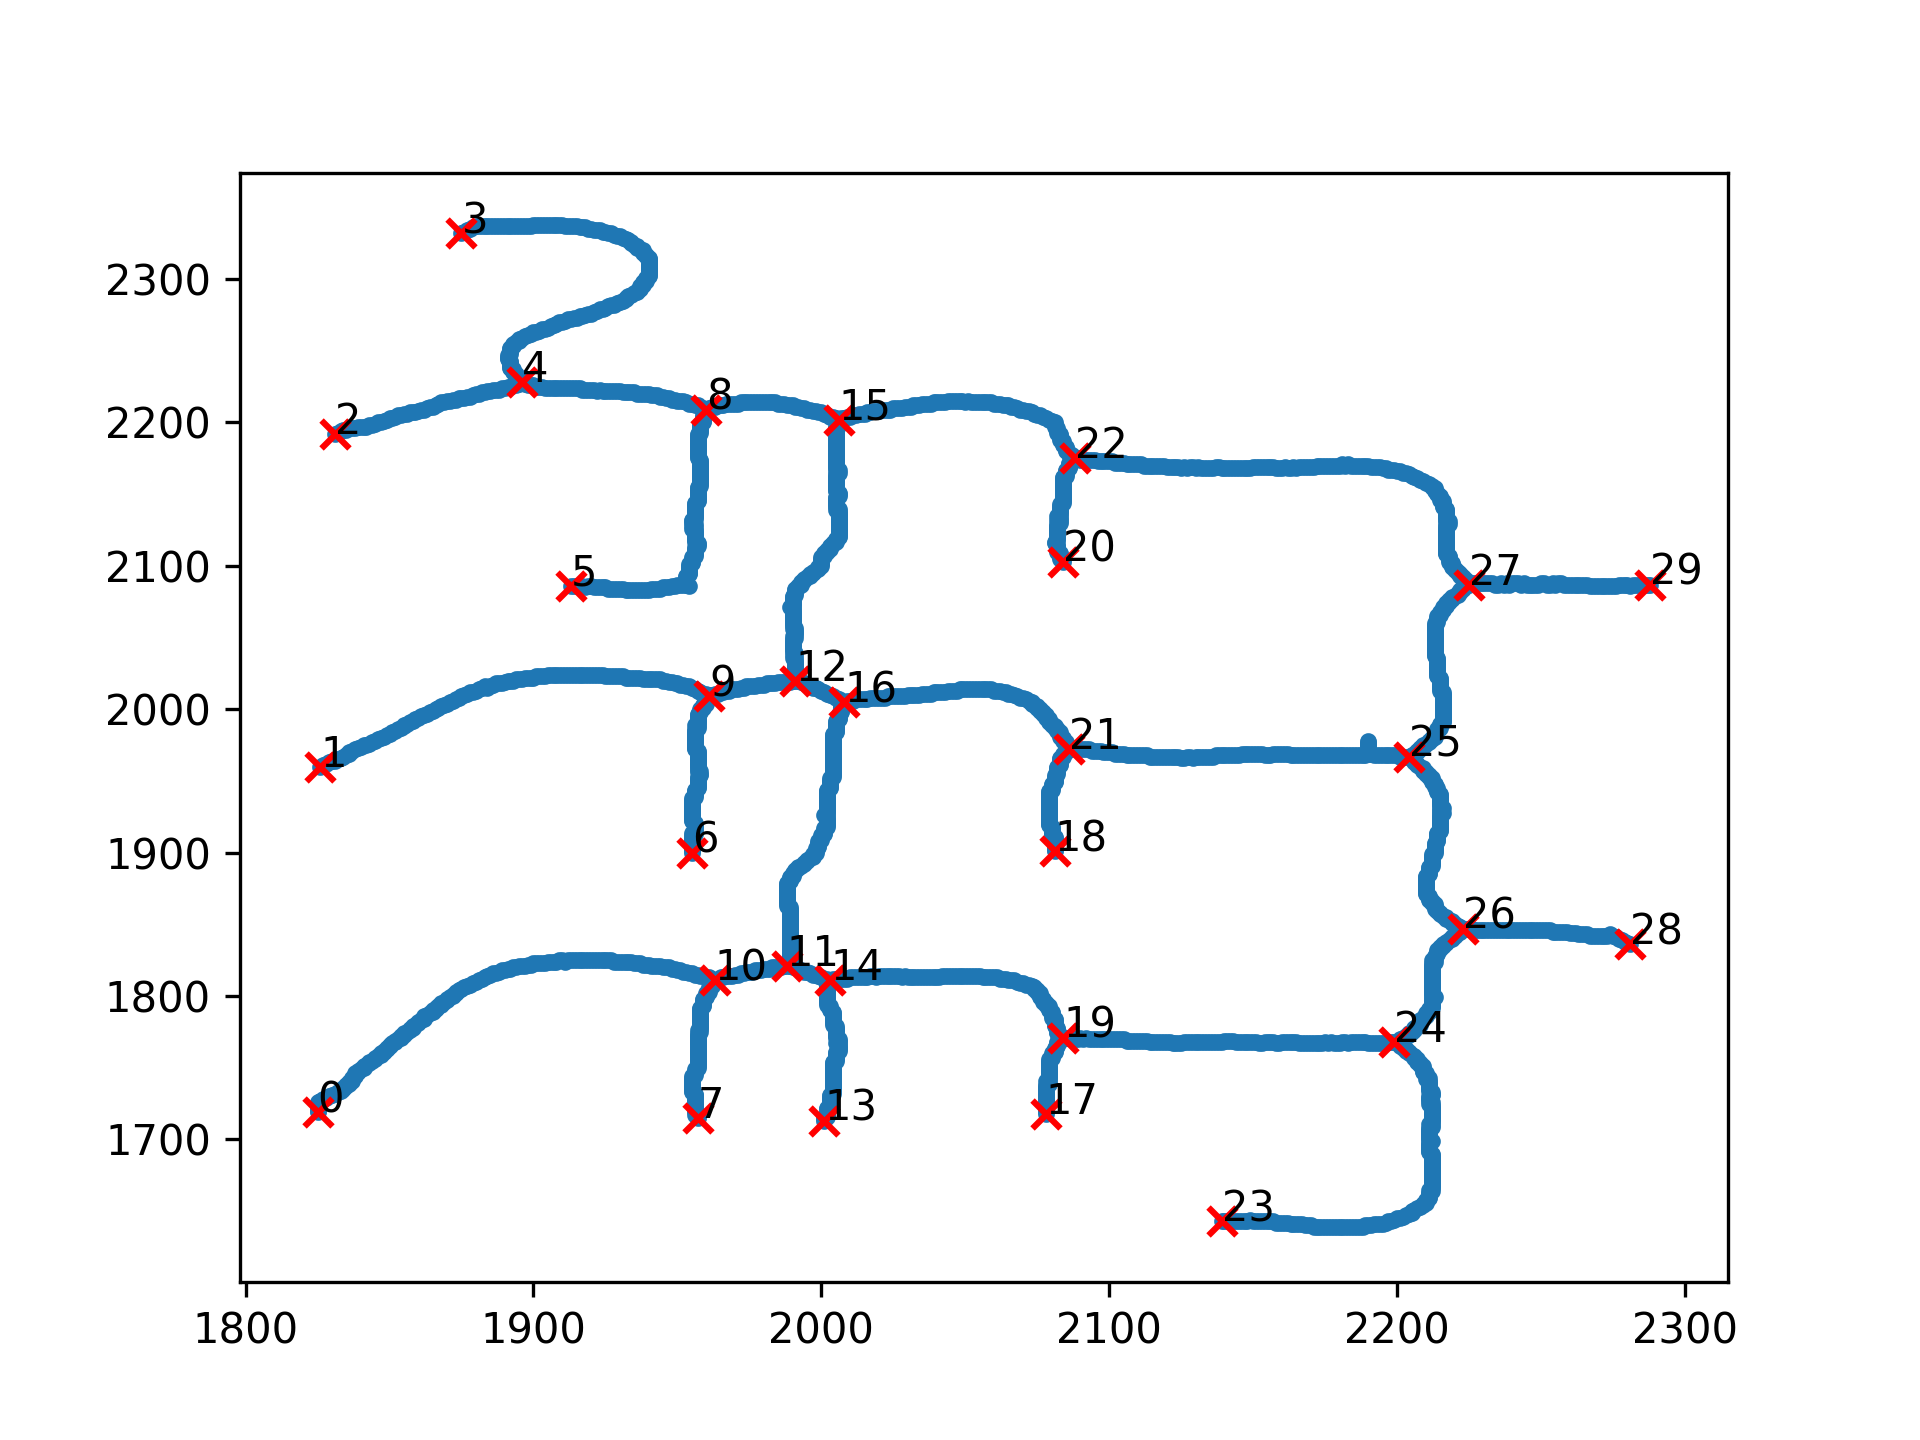
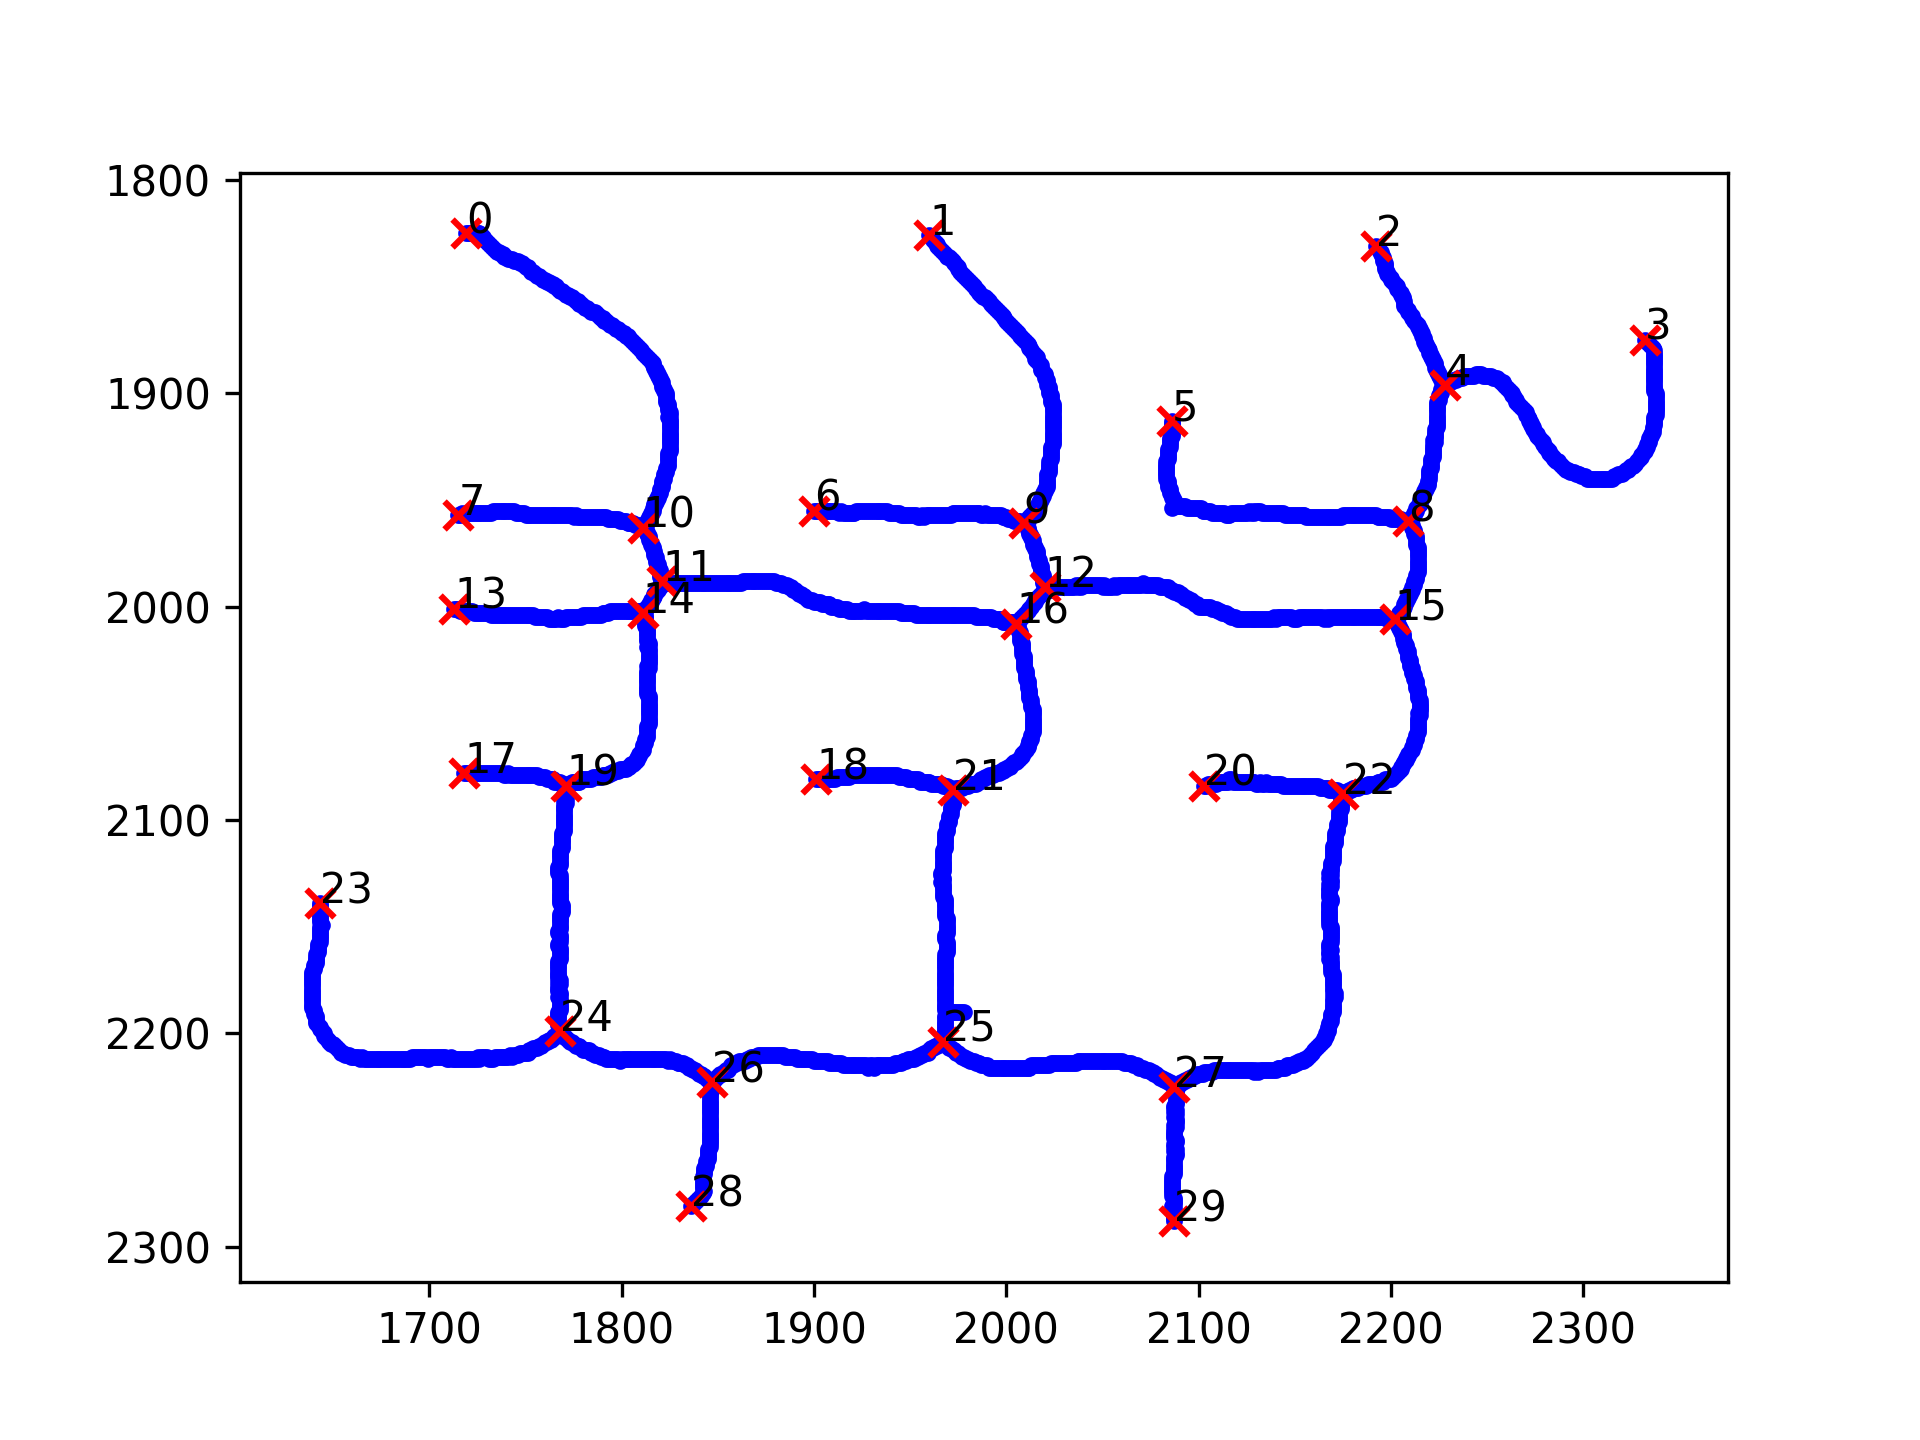
swapped axes of reduced_graph.png

diff --git a/generate_graph.py b/generate_graph.py
@@ -6,6 +6,7 @@ import matplotlib.pyplot as plt
 
 #Packages to make life easier
 import os
+from tqdm import tqdm
 
 
 def find_adjacent(pt, skeleton):
@@ -219,8 +220,12 @@ if __name__ == "__main__":
     node_pts_new = [row[3] for row in node_connection_list]
     np.save('node_pts_new', node_pts_new)
     skel_pts = np.load('skel_pts.npy')
-    plt.scatter(*zip(*skel_pts), marker='.')
-    plt.scatter(*zip(*node_pts_new), s=45, marker='x', c='red')
+
+    for row in tqdm(skel_pts):
+        plt.scatter(row[1], row[0], marker='.', c='blue')
+    for row in node_pts_new:
+        plt.scatter(row[1], row[0], s=45, marker='x',c='red')
+    plt.gca().invert_yaxis()
     for i in range(len(node_connection_list)):
-        plt.annotate(str(i), node_data[i][0])
+        plt.annotate(str(i), (node_data[i][0][1],node_data[i][0][0]))
     plt.savefig("reduced_graph.png", dpi = 300)
